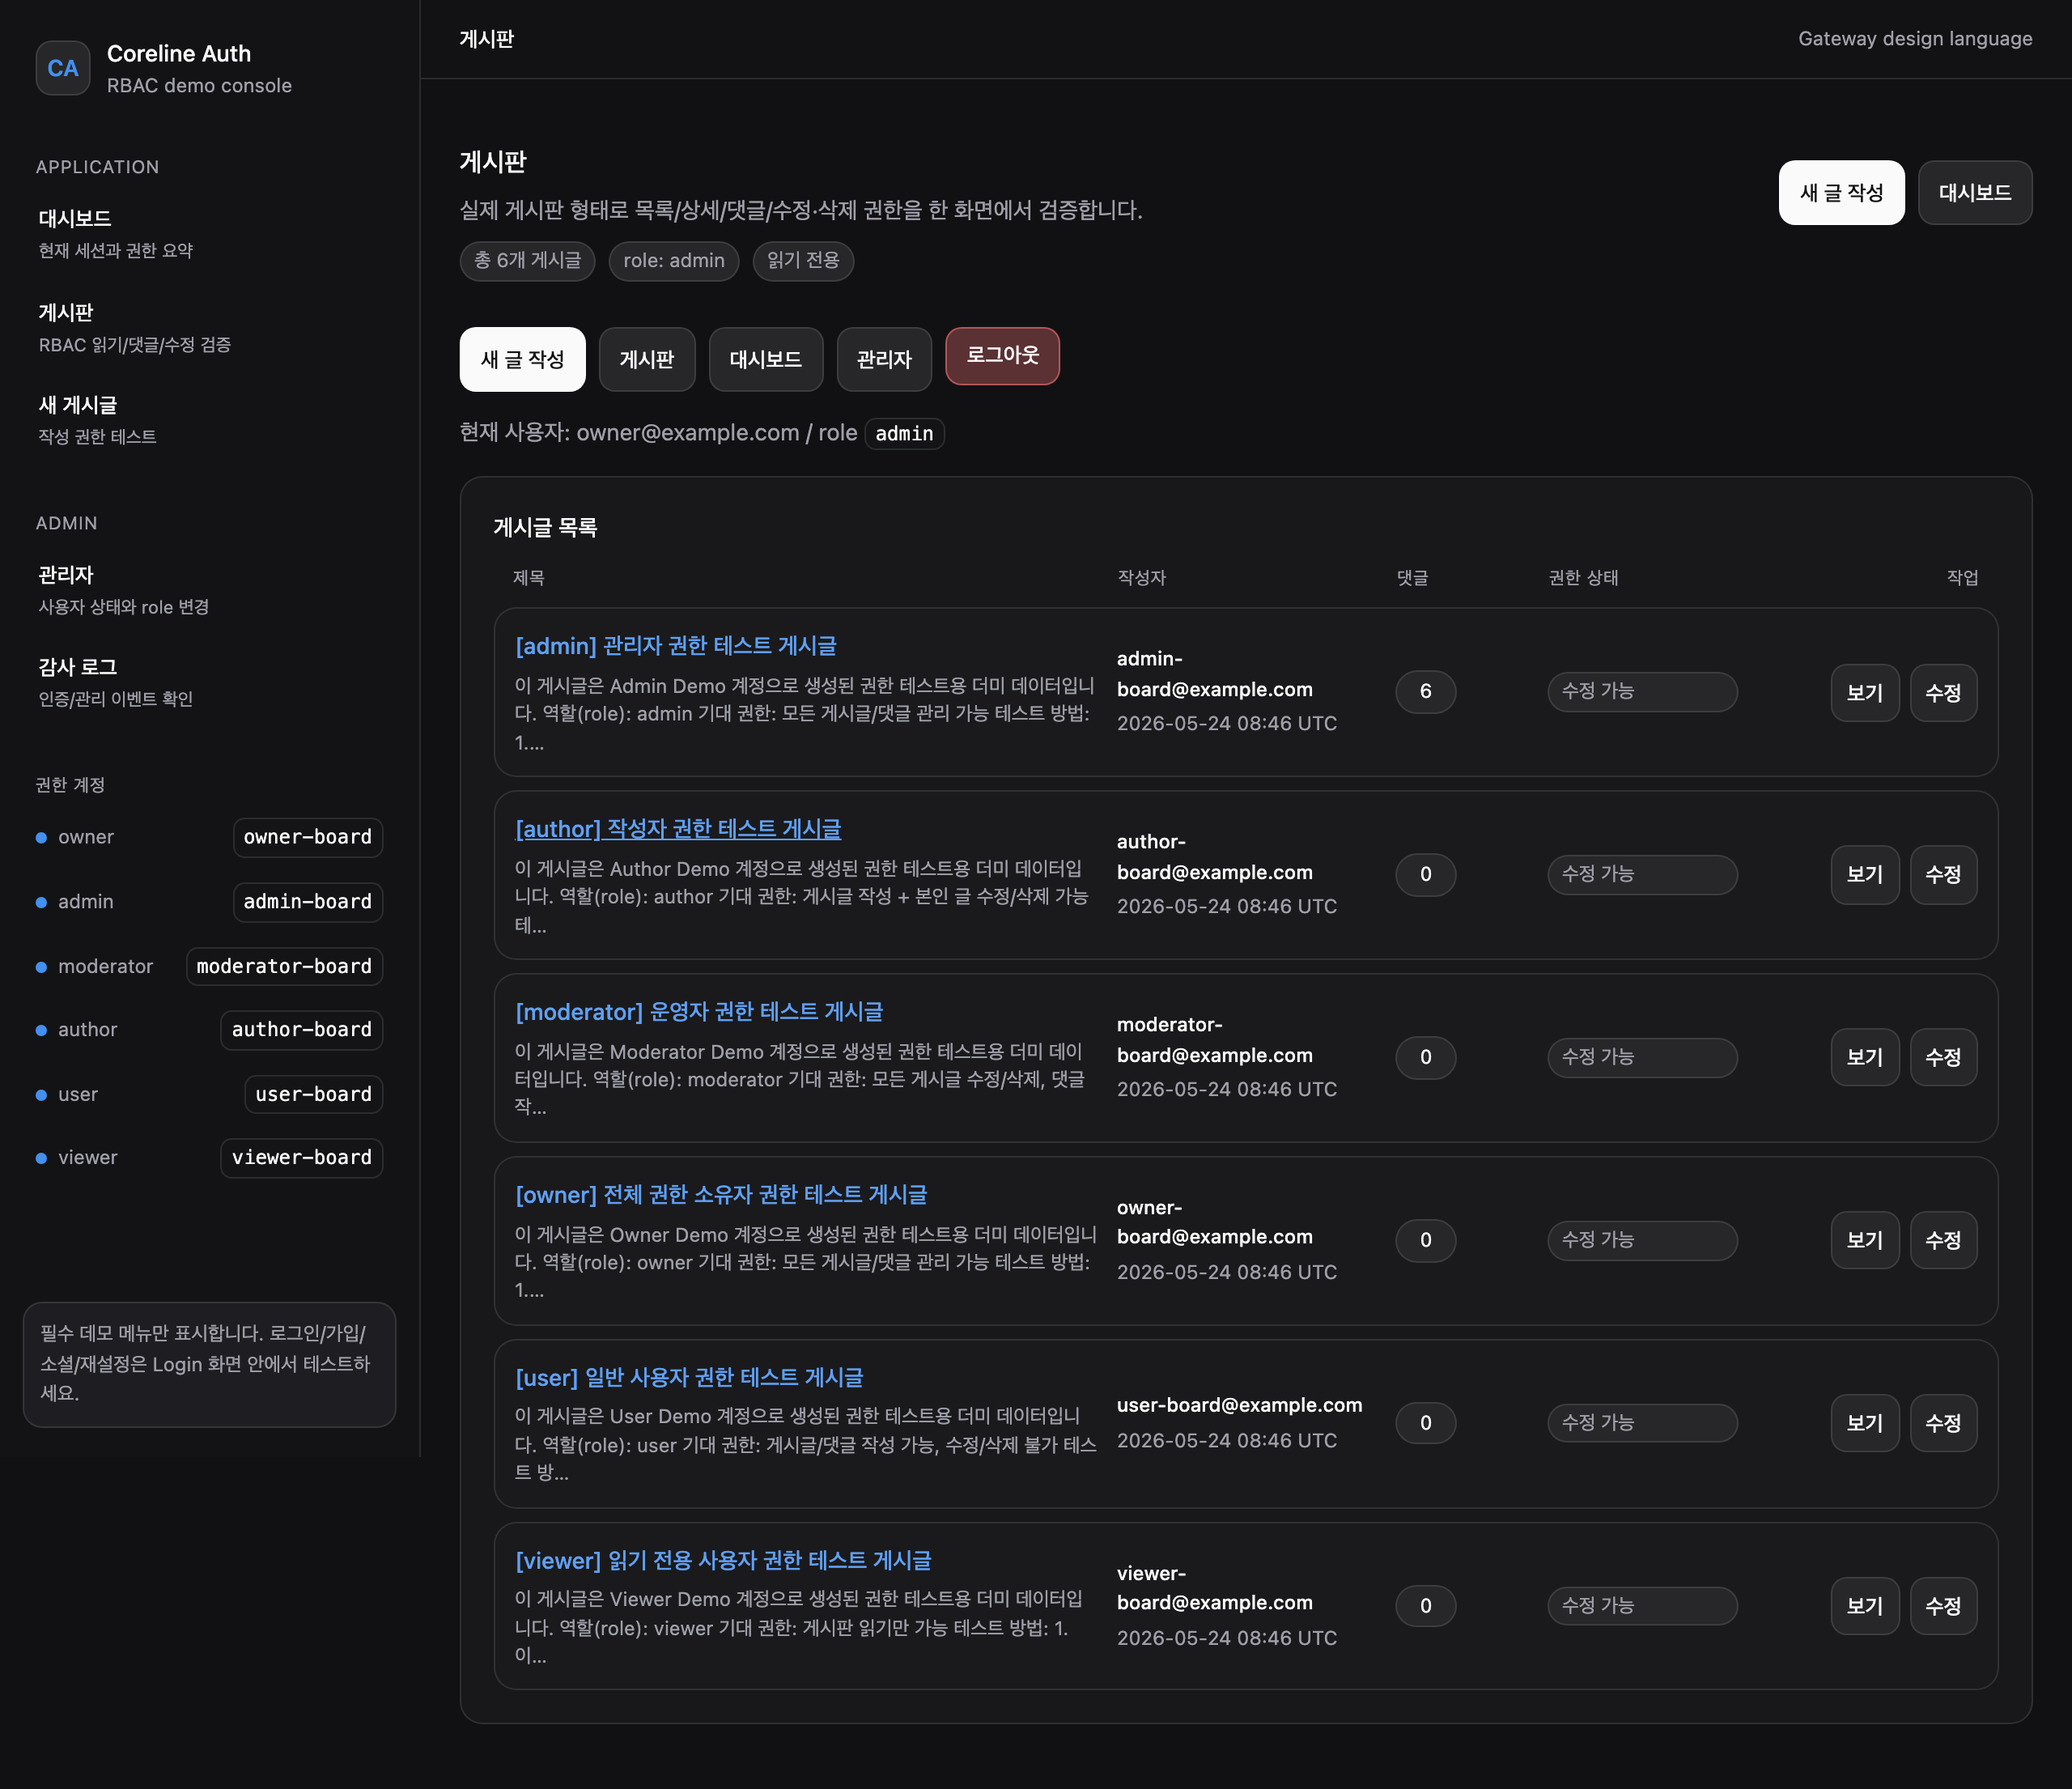
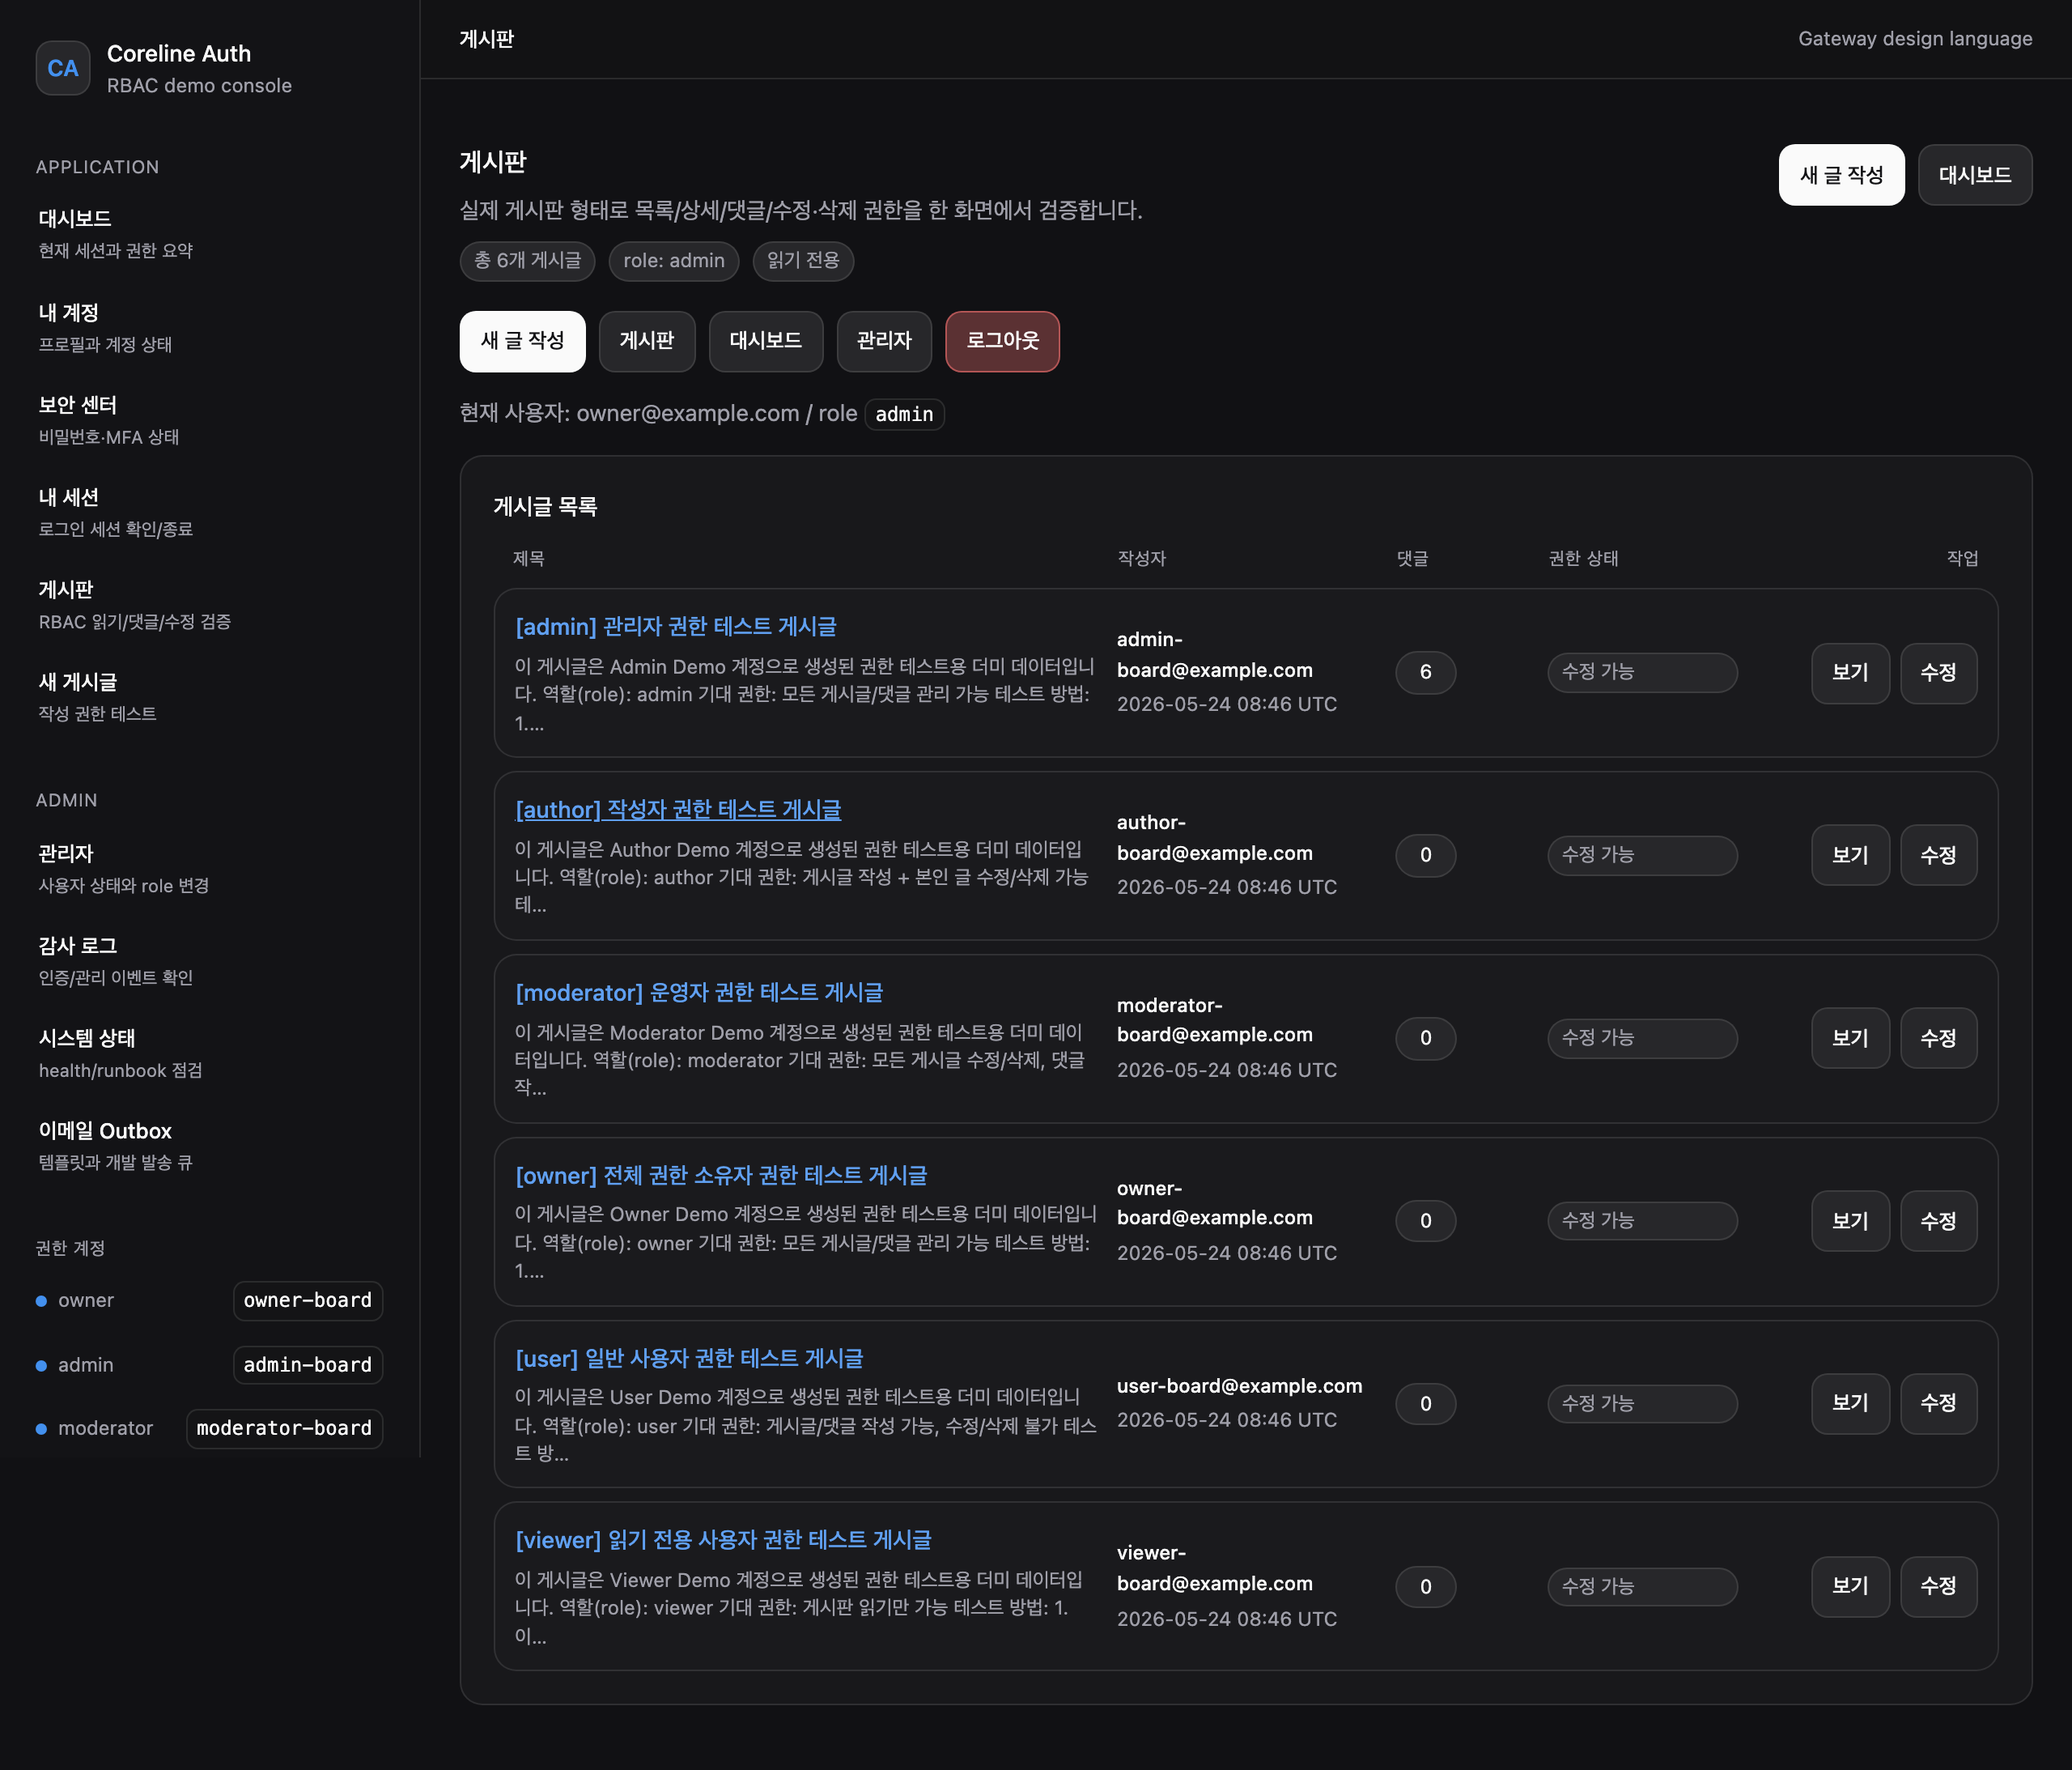
docs: refresh demo screenshots gallery (18 pages, 4 categories)
- Recapture all existing auth/board screens with latest UI
- Add self-service surface: profile, security, sessions, activity
- Add ops surface: admin user detail, system readiness, system email
- Reorganize README gallery into 4 categories — Auth · Board · Self-service · Admin & Ops
- Resequence file names so capture order matches the gallery layout

diff --git a/README.md b/README.md
@@ -780,9 +780,9 @@ without editing the database. The password is shared only in demo mode:
 
 ### 🖼 Demo screenshots
 
-> Captured live from `make run-demo` with `CORELINE_AUTH_DEMO_MODE=true`. Click any image to view full resolution.
+> **18 pages captured 2026-05-26** from `make run-demo` with `CORELINE_AUTH_DEMO_MODE=true`. Click any image to view full resolution.
 
-#### Authentication flows
+#### 🔐 Authentication flows
 
 <table>
 <tr>
@@ -813,7 +813,7 @@ without editing the database. The password is shared only in demo mode:
 </tr>
 </table>
 
-#### Application & RBAC
+#### 🏠 Application & Board (RBAC)
 
 <table>
 <tr>
@@ -834,28 +834,67 @@ without editing the database. The password is shared only in demo mode:
 </tr>
 </table>
 
-#### Admin & Audit
+#### 👤 Self-service account UX
 
 <table>
 <tr>
 <td width="50%" align="center">
-<a href="./docs/screenshots/09-admin-users.png"><img src="./docs/screenshots/09-admin-users.png" alt="Admin users" width="100%"/></a>
-<br/><sub><b>👮 Admin User Management</b> · <code>/admin</code> — Role update, ban/unban, session revoke · last-owner lockout protected</sub>
+<a href="./docs/screenshots/09-account-profile.png"><img src="./docs/screenshots/09-account-profile.png" alt="Account profile" width="100%"/></a>
+<br/><sub><b>👤 Profile</b> · <code>/account</code> — Display name + identity providers + email verification status</sub>
 </td>
 <td width="50%" align="center">
-<a href="./docs/screenshots/10-admin-audit.png"><img src="./docs/screenshots/10-admin-audit.png" alt="Audit viewer" width="100%"/></a>
-<br/><sub><b>📜 Audit Viewer</b> · <code>/admin/audit</code> — Persistent audit table · <code>audit:read</code> required · metadata redacted</sub>
+<a href="./docs/screenshots/10-account-security.png"><img src="./docs/screenshots/10-account-security.png" alt="Account security" width="100%"/></a>
+<br/><sub><b>🔒 Security</b> · <code>/account/security</code> — Self-serve password change with current-password verification</sub>
 </td>
 </tr>
 <tr>
-<td width="50%" align="center" colspan="2">
-<a href="./docs/screenshots/11-logout.png"><img src="./docs/screenshots/11-logout.png" alt="Logout" width="50%"/></a>
+<td width="50%" align="center">
+<a href="./docs/screenshots/11-account-sessions.png"><img src="./docs/screenshots/11-account-sessions.png" alt="Account sessions" width="100%"/></a>
+<br/><sub><b>📱 Sessions</b> · <code>/account/sessions</code> — Active sessions list with IP/UA hash + per-row revoke</sub>
+</td>
+<td width="50%" align="center">
+<a href="./docs/screenshots/12-account-activity.png"><img src="./docs/screenshots/12-account-activity.png" alt="Account activity" width="100%"/></a>
+<br/><sub><b>📒 Activity</b> · <code>/account/activity</code> — Self-readable audit feed (filtered to actor)</sub>
+</td>
+</tr>
+</table>
+
+#### 👮 Admin & Operations
+
+<table>
+<tr>
+<td width="50%" align="center">
+<a href="./docs/screenshots/13-admin-users.png"><img src="./docs/screenshots/13-admin-users.png" alt="Admin users" width="100%"/></a>
+<br/><sub><b>👮 User Management</b> · <code>/admin</code> — Role update, ban/unban, disable, session revoke · last-owner lockout protected</sub>
+</td>
+<td width="50%" align="center">
+<a href="./docs/screenshots/14-admin-user-detail.png"><img src="./docs/screenshots/14-admin-user-detail.png" alt="Admin user detail" width="100%"/></a>
+<br/><sub><b>🔍 User Detail</b> · <code>/admin/users/{id}</code> — Identities, sessions, recent audit, password set</sub>
+</td>
+</tr>
+<tr>
+<td width="50%" align="center">
+<a href="./docs/screenshots/15-admin-audit.png"><img src="./docs/screenshots/15-admin-audit.png" alt="Audit viewer" width="100%"/></a>
+<br/><sub><b>📜 Audit Viewer</b> · <code>/admin/audit</code> — Persistent audit · <code>audit:read</code> required · metadata redacted</sub>
+</td>
+<td width="50%" align="center">
+<a href="./docs/screenshots/16-system-readiness.png"><img src="./docs/screenshots/16-system-readiness.png" alt="System readiness" width="100%"/></a>
+<br/><sub><b>🩺 Readiness</b> · <code>/system</code> — Secret-safe env check (Google / SMTP / Redis / Postgres / WebAuthn)</sub>
+</td>
+</tr>
+<tr>
+<td width="50%" align="center">
+<a href="./docs/screenshots/17-system-email.png"><img src="./docs/screenshots/17-system-email.png" alt="System email" width="100%"/></a>
+<br/><sub><b>📧 Email Preview</b> · <code>/system/email</code> — Template render check (magic / verify / reset bodies)</sub>
+</td>
+<td width="50%" align="center">
+<a href="./docs/screenshots/18-logout.png"><img src="./docs/screenshots/18-logout.png" alt="Logout" width="100%"/></a>
 <br/><sub><b>🚪 Logout</b> · <code>/logout</code> — Session token revoked + cookie cleared</sub>
 </td>
 </tr>
 </table>
 
-> 💡 **Regenerate screenshots:** the captures above are produced by booting the demo app and walking every route with Playwright. Run `make run-demo` (port 8010), then drive a headless browser through the route list to refresh the gallery.
+> 💡 **Regenerate screenshots:** boot the demo (`make run-demo`, port 8010), then drive a headless browser through the route list. Login + admin pages need owner credentials; `/account/*` pages need any active session.
 
 ---
 
